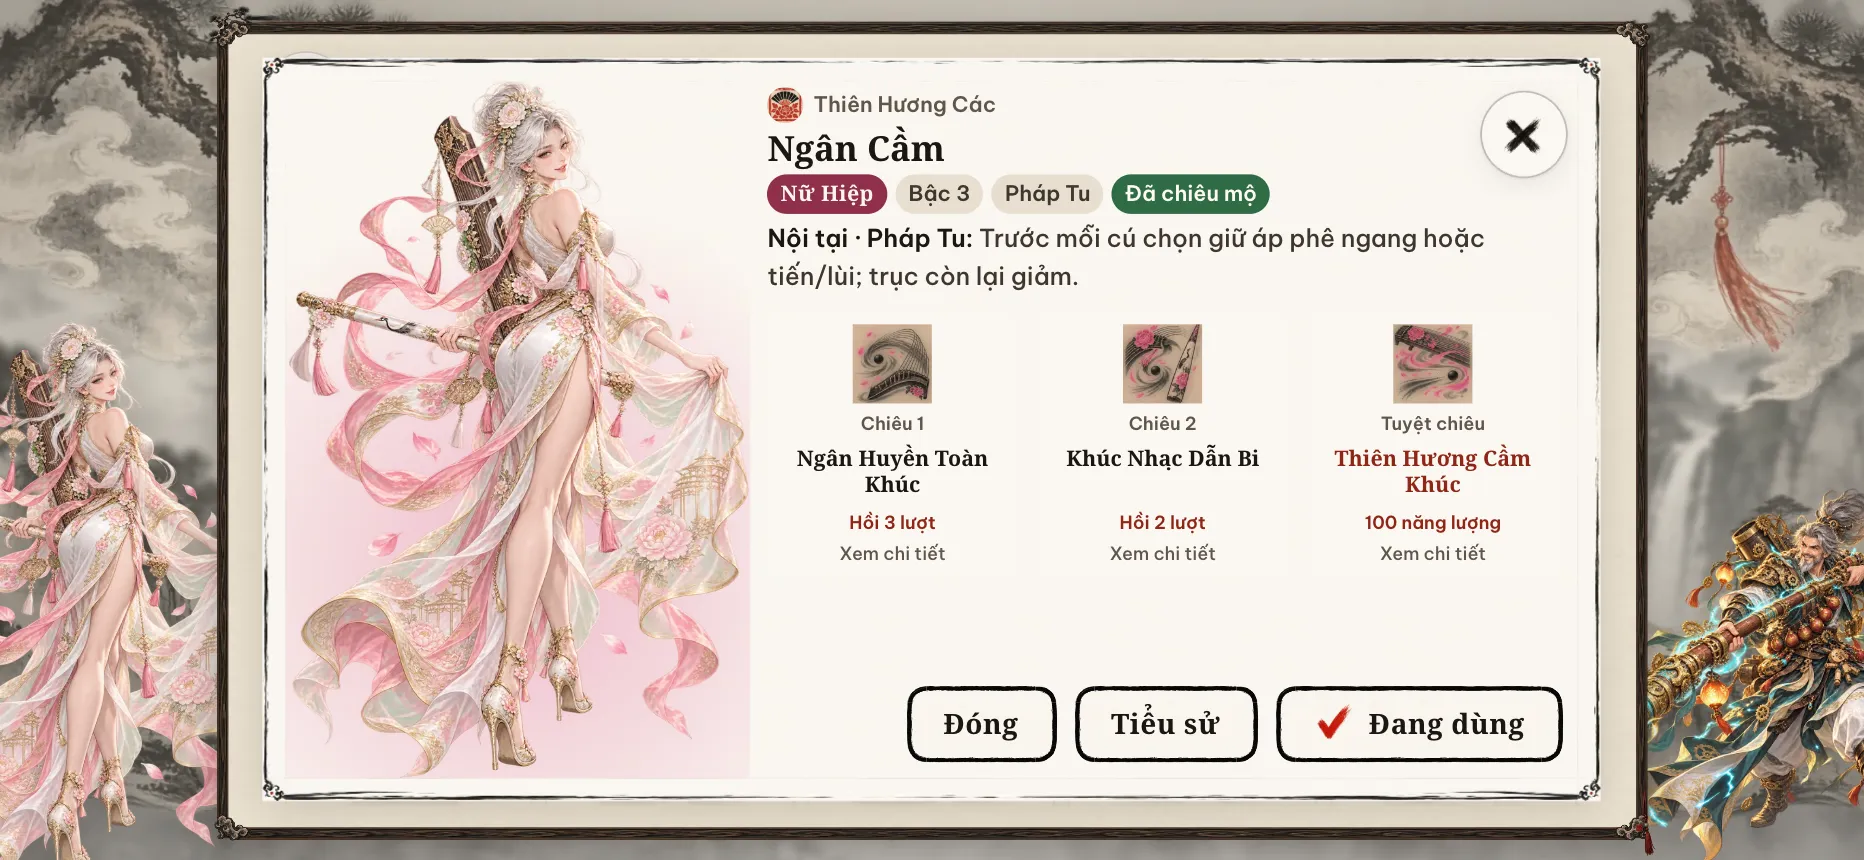
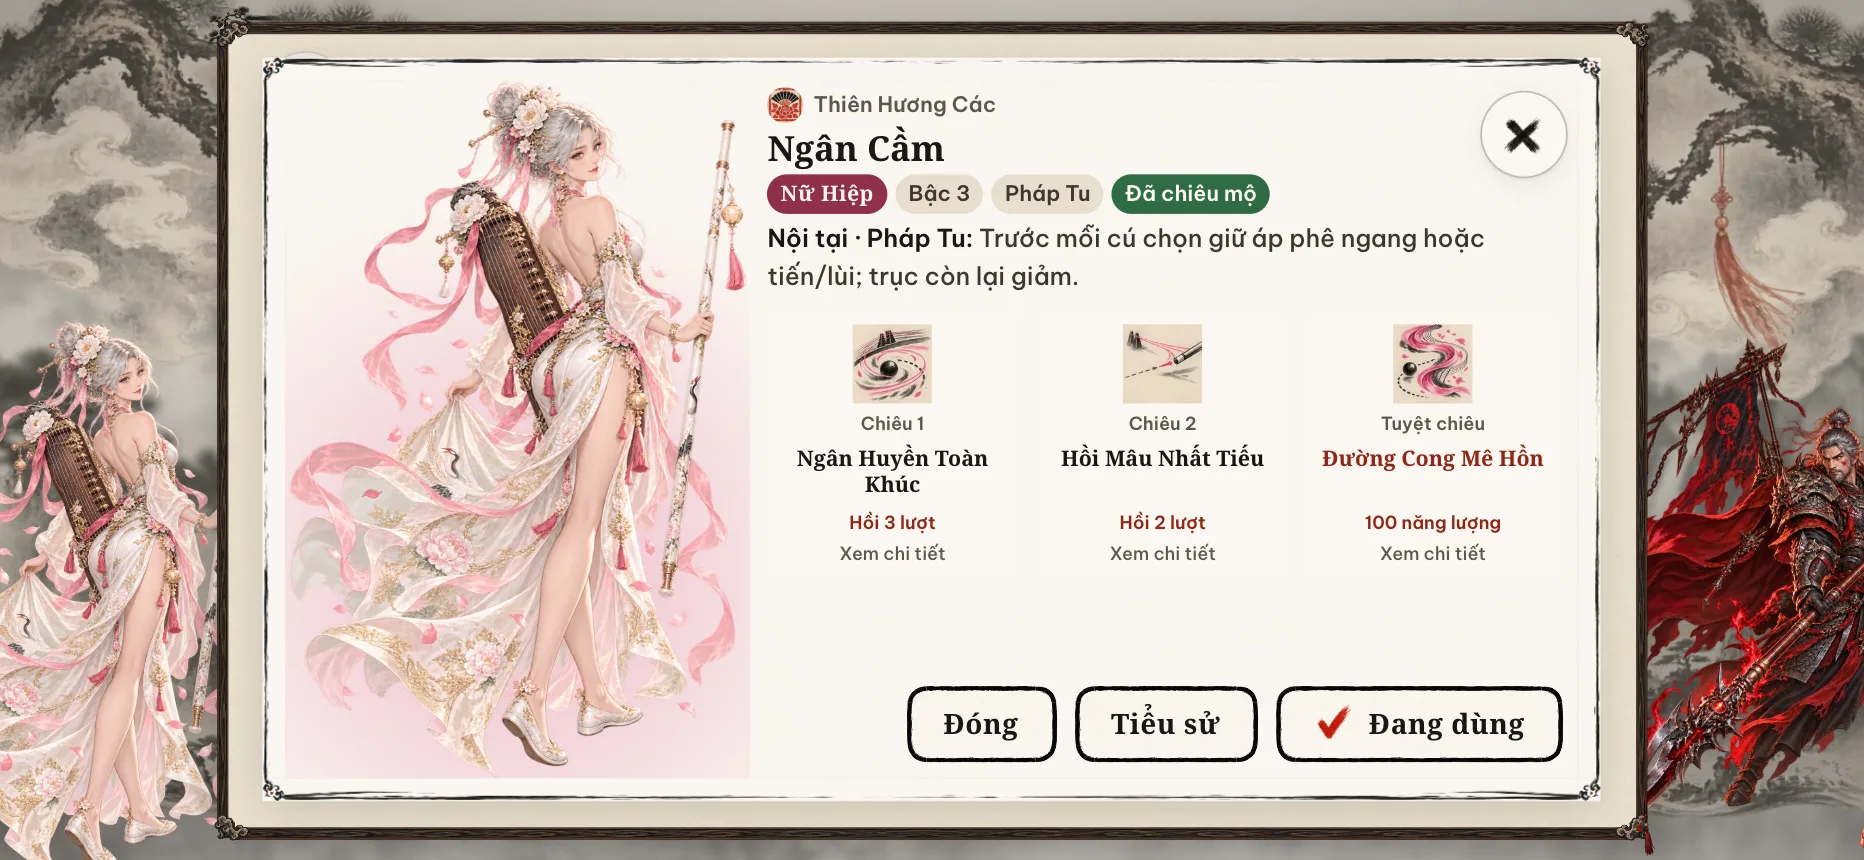
docs: retake every README screenshot for the redesigned skills and art
Ngân Cầm's new paintings, the new skill cards, the tier on the Song Đấu cards and the dismissible hint now show in the pictures.

diff --git a/README.md b/README.md
@@ -49,7 +49,7 @@ Chụp ở 932×430, tướng của người chơi là Ngân Cầm.
 
 | Luận Cơ | Song Đấu |
 | --- | --- |
-| ![Chọn trận Luận Cơ](docs/screenshots/luan-co.webp) | ![Song Đấu: mỗi bên chọn tướng, tên và Pháp Cơ](docs/screenshots/song-dau.webp) |
+| ![Chọn trận Luận Cơ](docs/screenshots/luan-co.webp) | ![Song Đấu: mỗi bên chọn tướng (thẻ ghi bậc), tên và Pháp Cơ](docs/screenshots/song-dau.webp) |
 | **Trận đấu** | **Tạm dừng** |
 | ![Trận đấu: mũi tên son trên chân dung người tới lượt](docs/screenshots/tran-dau.webp) | ![Menu tạm dừng](docs/screenshots/tam-dung.webp) |
 | **Chiêu thức** | **Tuyệt chiêu** |
